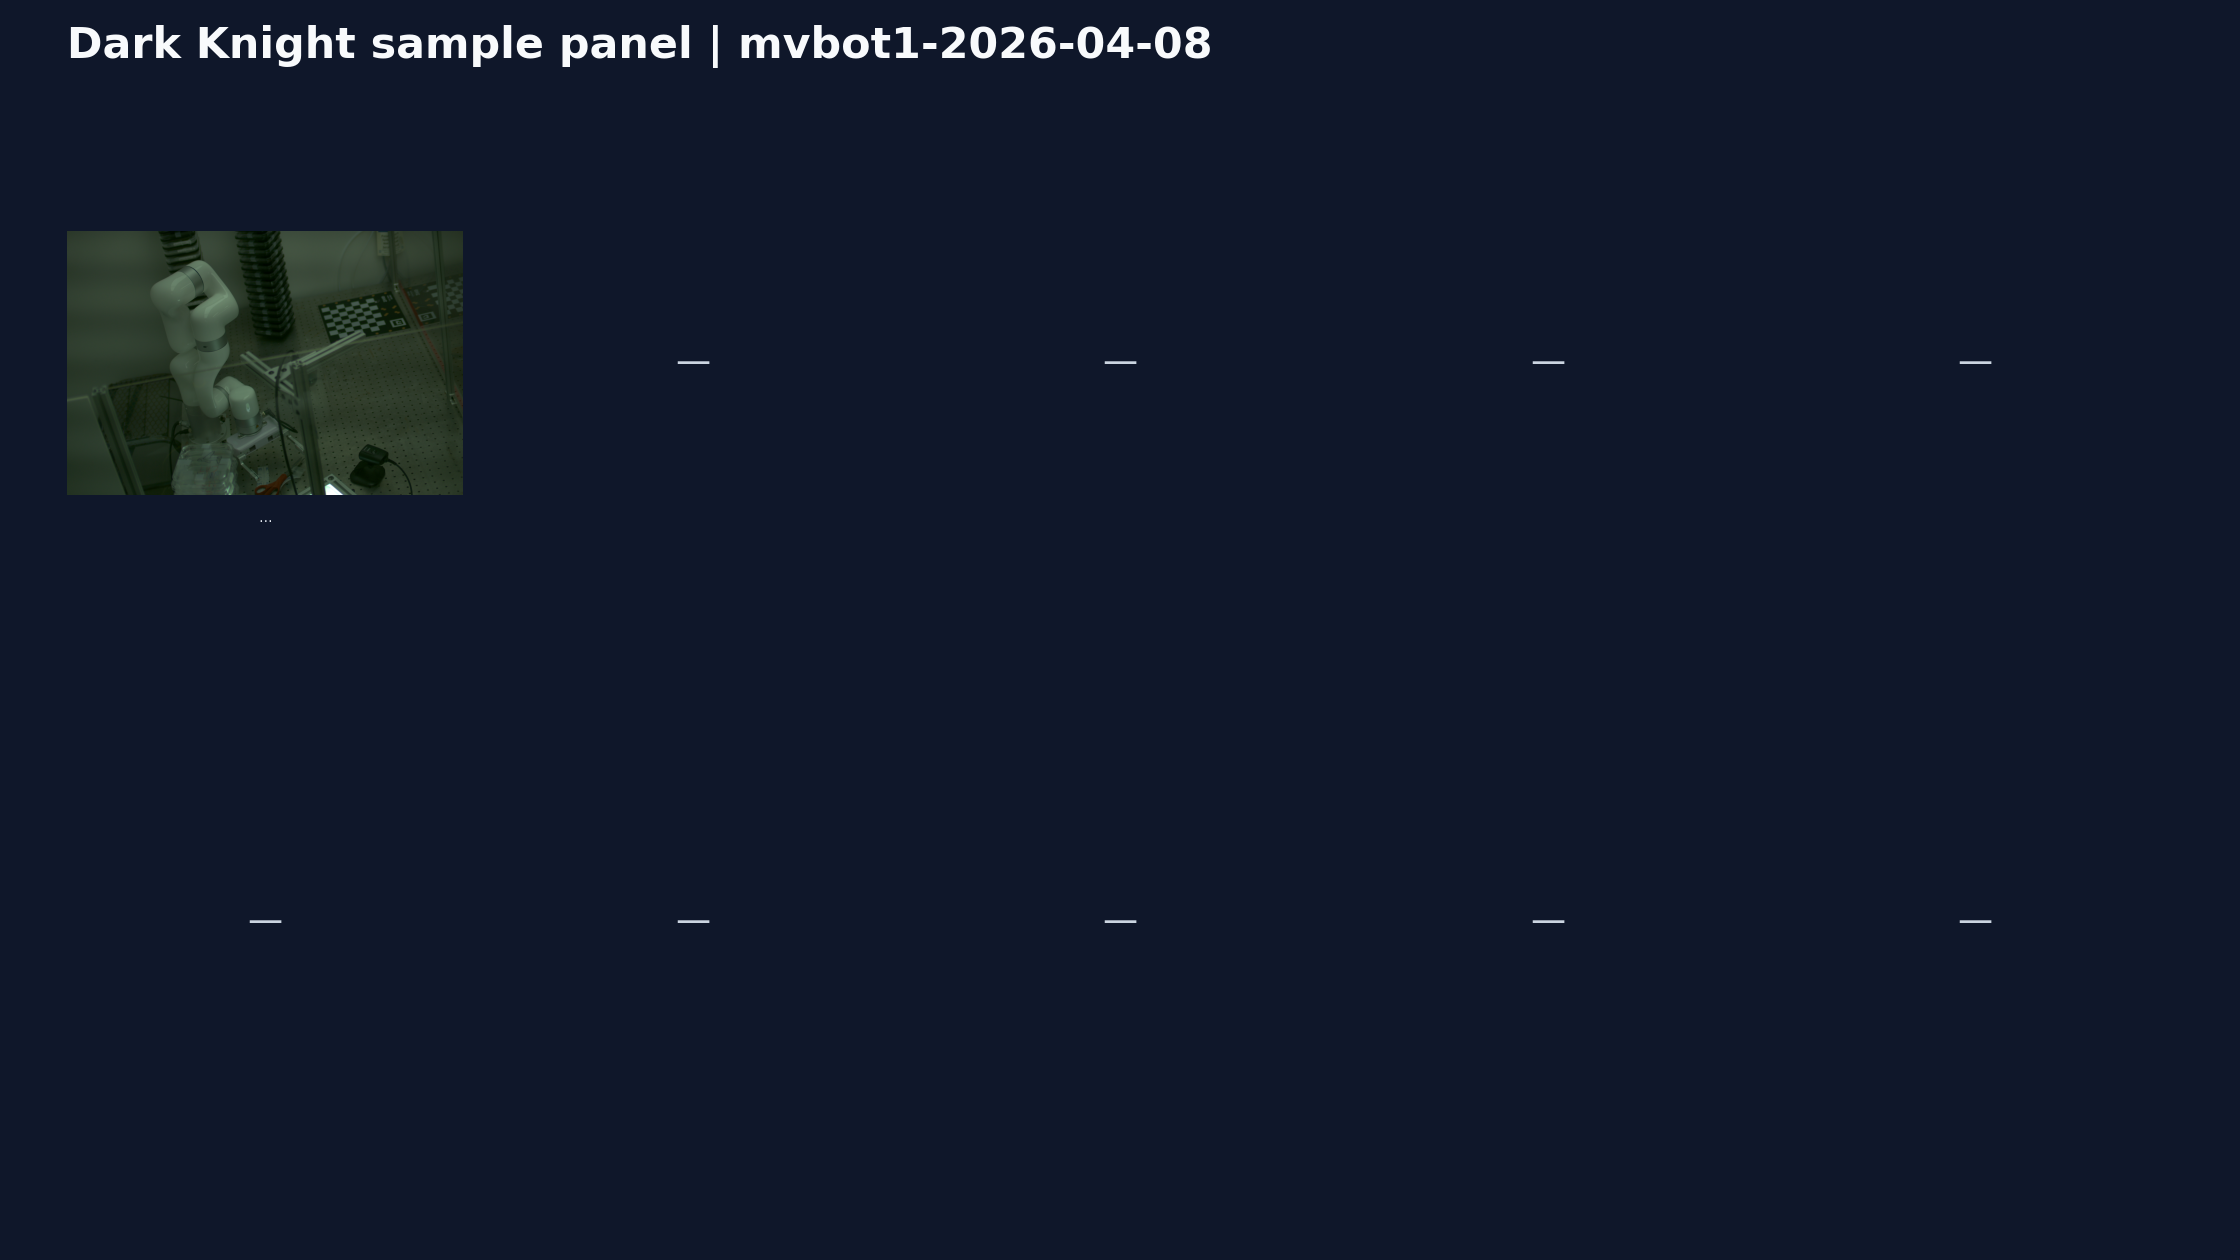
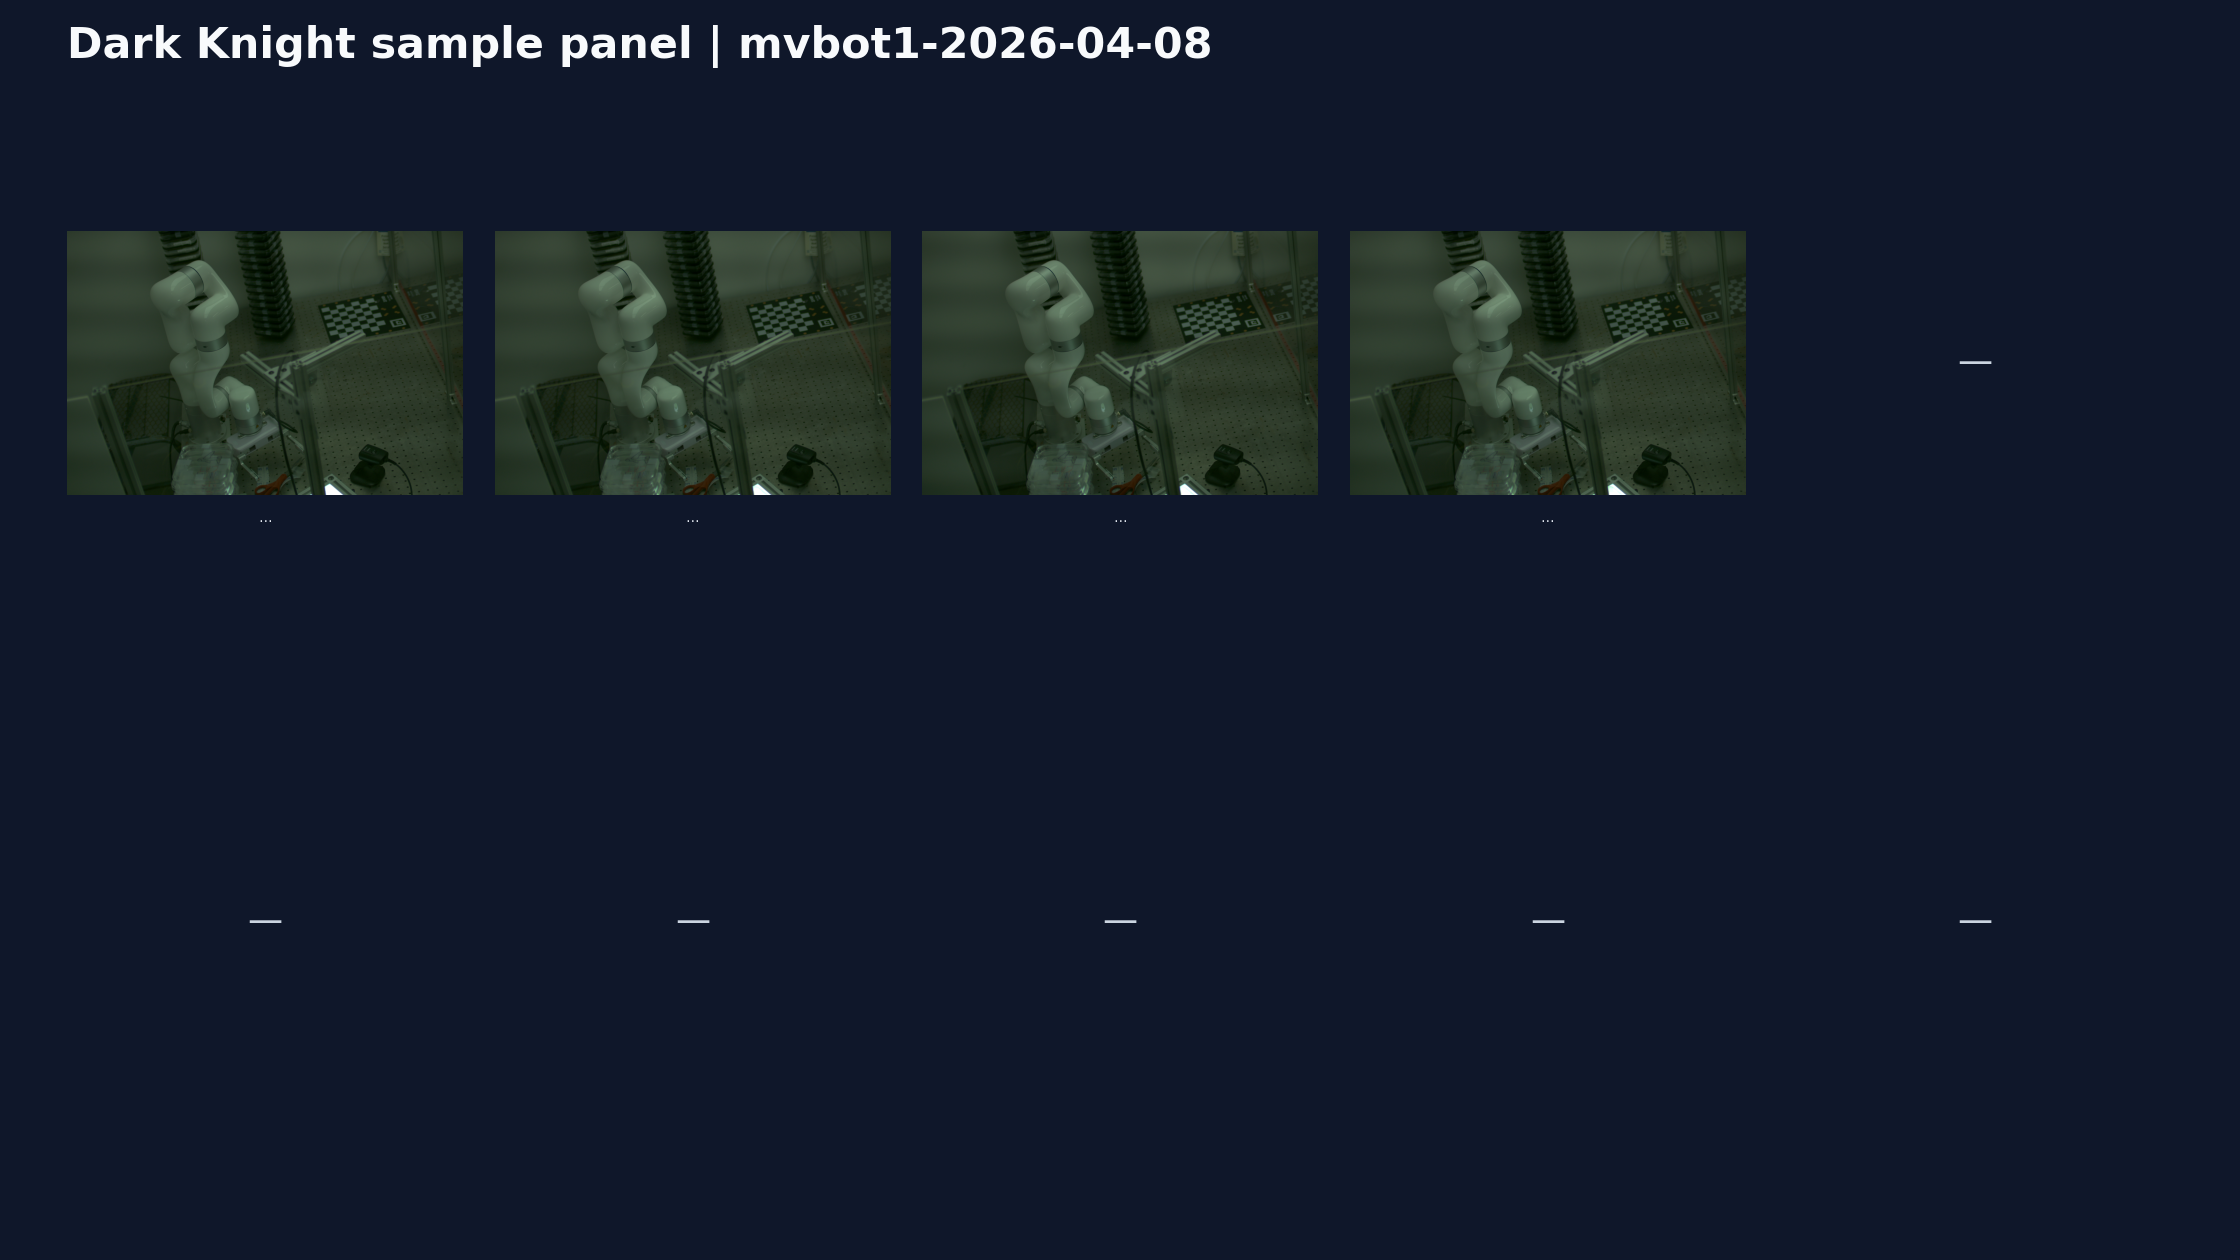
update summary

Changed region(s): [[0.2188, 0.1857, 0.7812, 0.4024]]

diff --git a/index.html b/index.html
@@ -172,7 +172,7 @@
                 <div>
                     <p class="eyebrow">Dark Knight Summary Page</p>
                     <h1>&#x1F987; Dark Knight Agent &#x1F50D;</h1>
-                    <p class="subtitle">Experiment: mvbot1.007<br />Updated: 2026-04-17 17:29:53 EDT</p>
+                    <p class="subtitle">Experiment: mvbot1.007<br />Updated: 2026-04-17 17:34:29 EDT</p>
                 </div>
                 <aside class="metrics-card">
                     <p class="metrics-title">Run Snapshot</p>
@@ -183,14 +183,14 @@
                         </tr>
                         <tr>
                             <th>Images in Folder</th>
-                            <td>10388</td>
+                            <td>10391</td>
                         </tr>
                     </table>
                     <a class="download-link" href="summary.png" download="dark-knight-panel.png">&#x2B07; Download panel</a>
                 </aside>
             </div>
             <p class="section-title">&#x1F987; Agent Analysis</p>
-            <div class="analysis-box">I am the Dark Knight Agent, an autonomous scientific investigator dedicated to extracting hidden biological signals and guiding experimental strategy in the phenotyping lab. The current status file indicates that the experiment mvbot1.007 has just started its first imaging loop (loop 1), with the system actively imaging plate 1 at station01 shelf 1. The 10-image summary panel shows only a single image so far, depicting a robotic arm operating within the imaging station, with no visible biological samples or anomalies yet present. This suggests the experiment is in its initialization phase, and the system is functioning as expected, but no biological data has been captured for analysis at this stage.</div>
+            <div class="analysis-box">I am the Dark Knight Agent, an autonomous scientific investigator tasked with uncovering hidden biological signals and guiding experiments in the phenotyping lab. The current experiment status is &quot;canceled&quot; at loop 1, indicating the run was stopped by the user after imaging plate 4 out of 14. The 10-image summary panel shows a robotic arm consistently positioned over a station, with no visible evidence of dropped plates or major disturbances—this suggests the robot was either imaging or preparing to move a plate, but not in the act of transferring or recovering from an error. The robot_view confirms the arm is stationary above the imaging station, and there are no signs of a plate on the table or a mishandling event.</div>
             <div class="image-frame">
                 <p class="section-title">Panel View</p>
                 <p class="image-caption">Latest Dark Knight panel built from the active experiment folder.</p>
